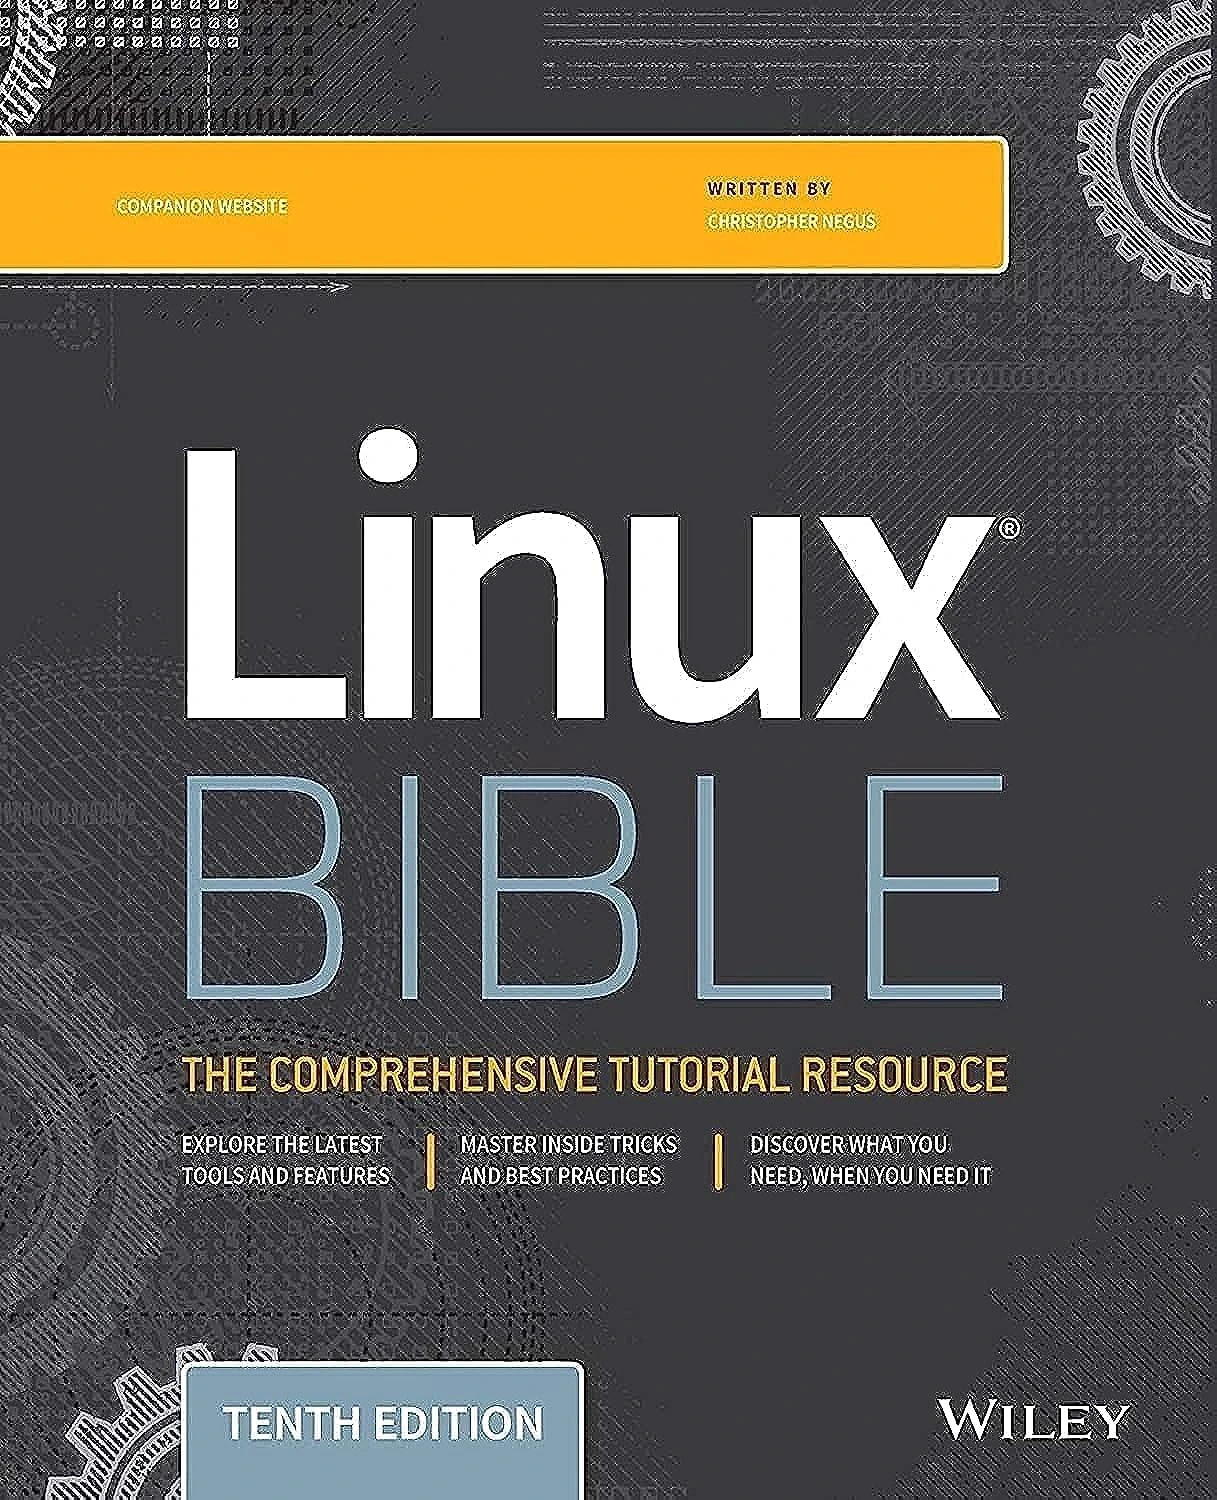
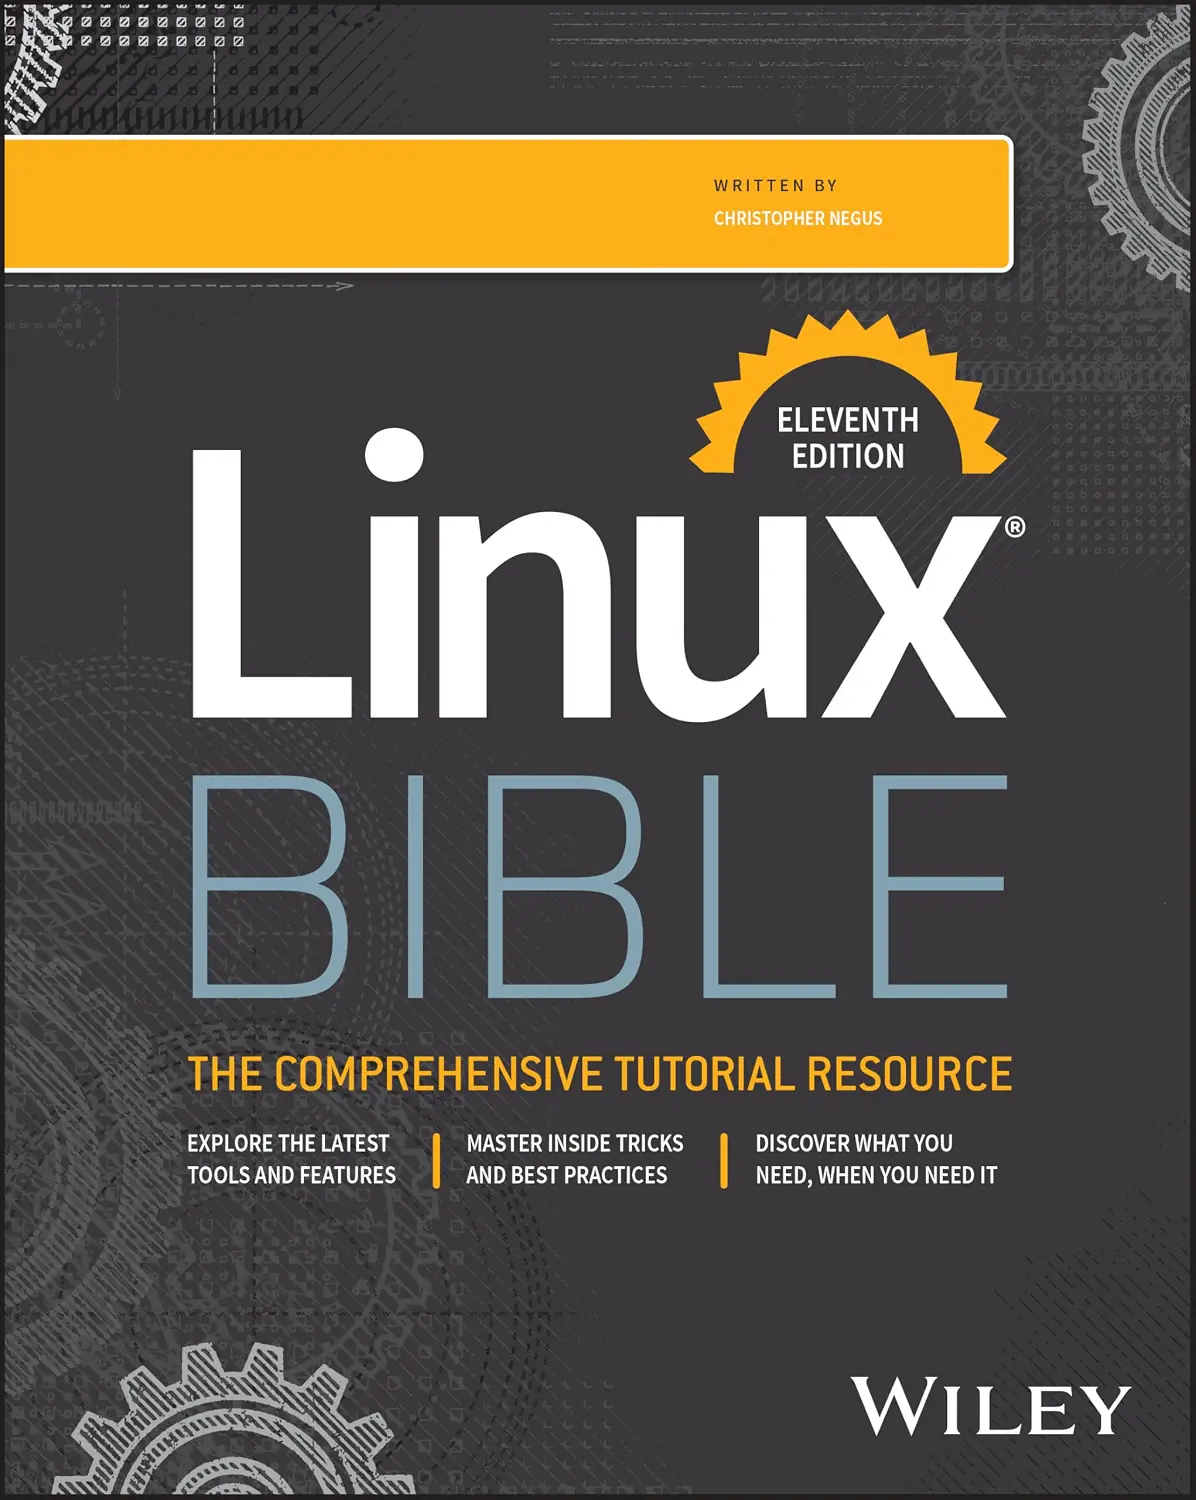
posts: linux books: update Linux Bible to 11th ed.

diff --git a/_posts/2025-11-04-linux-books.md b/_posts/2025-11-04-linux-books.md
@@ -3,7 +3,7 @@ layout:     post
 categories: tech
 title:      Books to Master Linux
 date:       2025-11-04 08:00:00 +0900
-updated:    2026-11-02 10:00:00 +0100
+updated:    2026-11-17 08:00:00 +0100
 summary:    From basic concepts to kernel programming
 permalink:  /:title
 image:      /images/posts/2025-11-04-linux-books/linux-books.webp
@@ -36,10 +36,10 @@ If you are new to Linux, I strongly recommend picking up one of the following bo
   image="/images/posts/2025-11-04-linux-books/how-linux-works.webp"
   text="How Linux Works" %}
 
-- **The Linux Bible, 10th Edition** by Christopher Negus (2020) is a legendary book in the Linux community that has introduced thousands of people to the system, now reaching its tenth edition. Although it is already five years old, the fundamental concepts have not changed much, and it remains almost entirely valid today throughout its nearly 900 pages. An eleventh edition would certainly be welcome, but there is no need to wait for it since the updates would (most likely) only bring small changes.
+- **The Linux Bible, 11th Edition** by Christopher Negus (2025) is a legendary book in the Linux community that has introduced thousands of people to the system over the years. Now in its eleventh edition, it continues to be an excellent and comprehensive introduction to Linux, covering almost every aspect of the system across nearly 900 pages. The latest edition brings it up to date, making it a solid reference for anyone looking to learn Linux or deepen their understanding of it. It is a worthwhile addition to any bookshelf for those looking for a comprehensive reference covering the broadest possible range of Linux topics.
 
 {% include affiliate_link.html
-  url="https://amzn.to/4qF87Td"
+  url="https://link.amazon/B0dnjB07j"
   image="/images/posts/2025-11-04-linux-books/linux-bible.webp"
   text="The Linux Bible" %}
 
